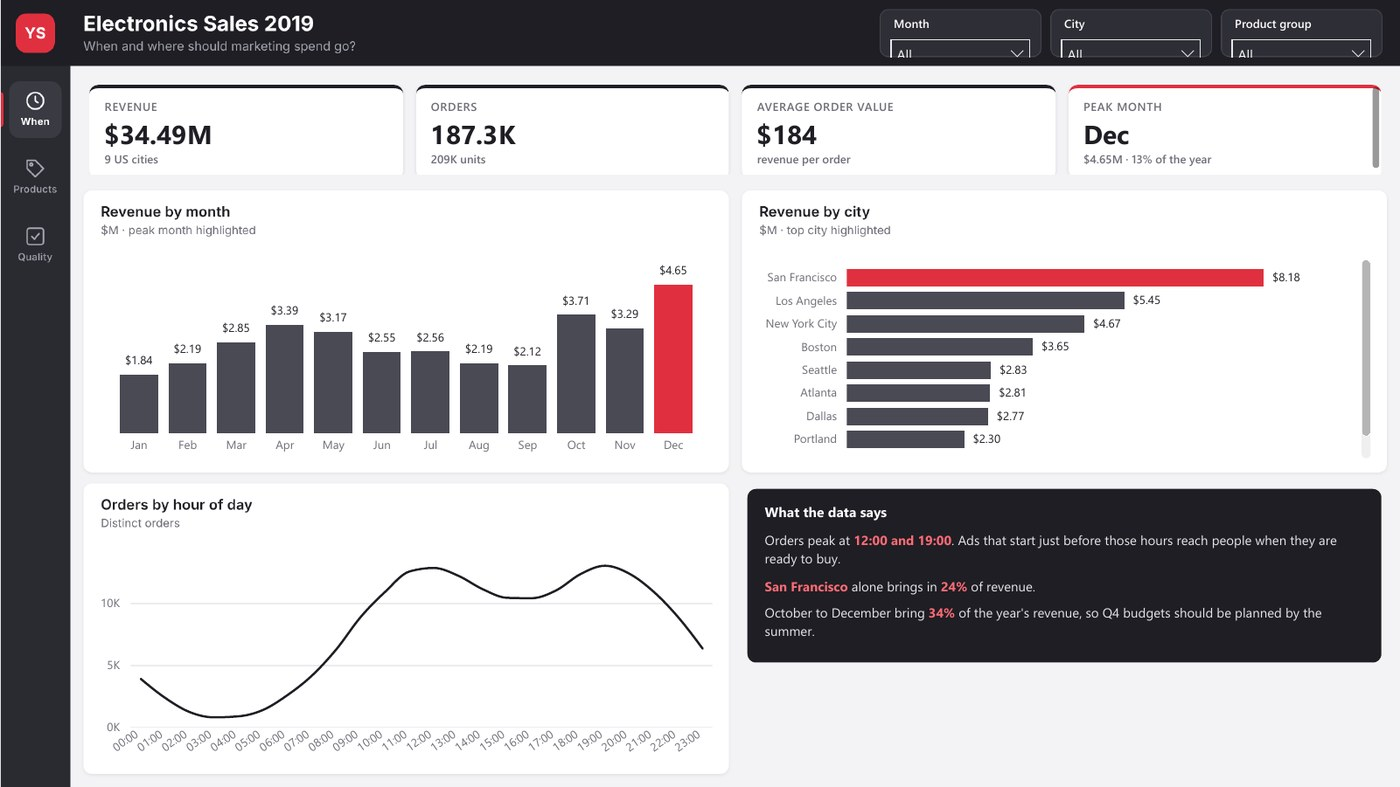
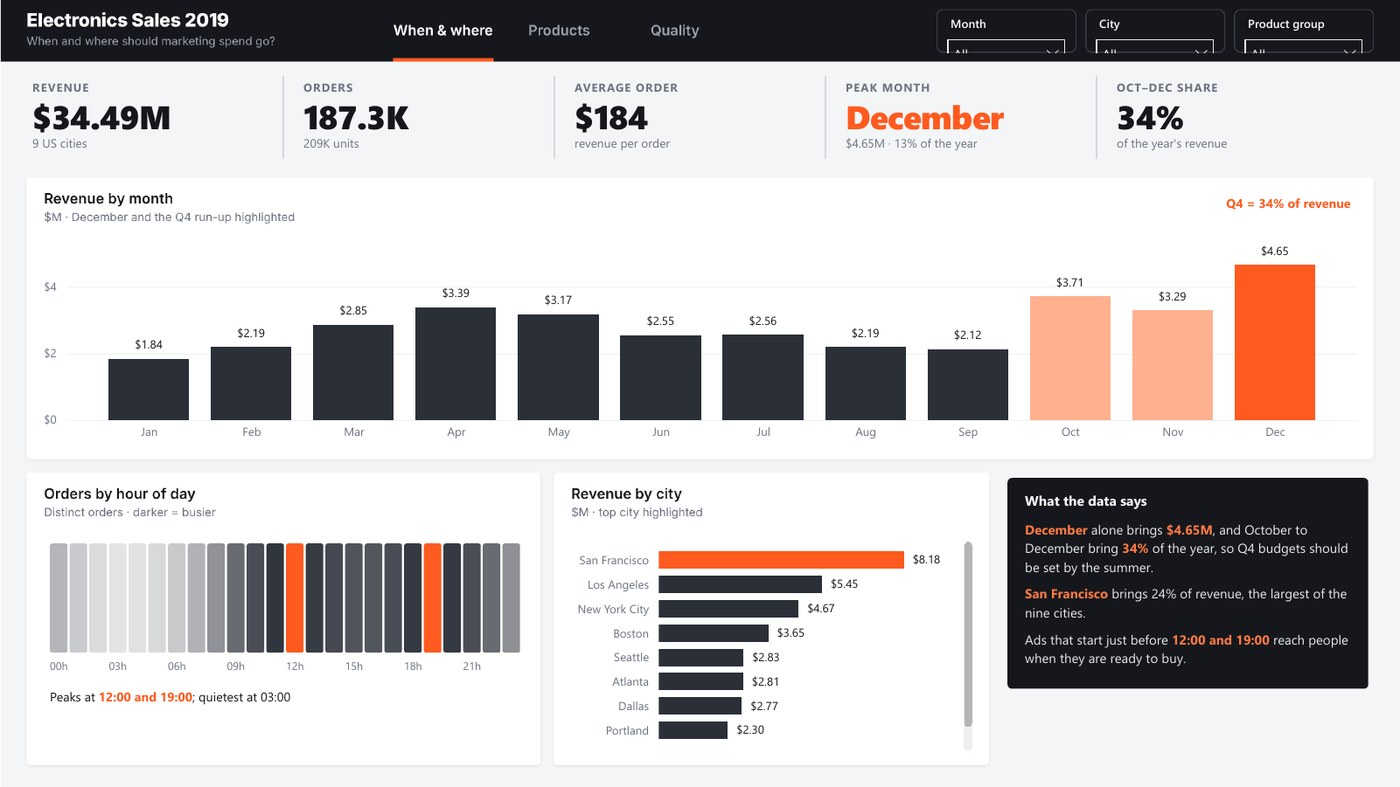
Works: new Electronics and Egypt Property layouts

diff --git a/index.html b/index.html
@@ -853,11 +853,11 @@ footer{border-top:1px solid var(--line);padding-block:48px 40px;background:linea
     {t:"Electronics Sales 2019", d:"Sep 2023", cat:"Sales",
      q:"When and where should marketing spend go?",
      p:"$34.49M from 187.3K orders across nine US cities (sample data). December is the peak month at $4.65M, San Francisco brings 24% of revenue, and October to December together bring 34%. Orders are counted by order ID, not by order line as in the first version.",
-     tags:["Power BI","Power Query"], imgs:["electronics","electronics-2"]},
+     tags:["Power BI","Power Query"], imgs:["electronics","electronics-2","electronics-3"]},
     {t:"Egypt Property Market", d:"May 2023", cat:"Market",
      q:"Where do buyers get the most space for their money?",
      p:"5,000 listings across Cairo, Giza and Alexandria (sample data), cleaned in Power Query to remove duplicates and zero-area rows. Alexandria villas are the most expensive at EGP 5.25M on average, while Alexandria apartments are the cheapest per m² at about EGP 10.2K.",
-     tags:["Power BI","Power Query"], imgs:["property","property-2"]}
+     tags:["Power BI","Power Query"], imgs:["property","property-2","property-3"]}
   ];
 
   var grid=document.getElementById("grid"), filters=document.getElementById("filters");
